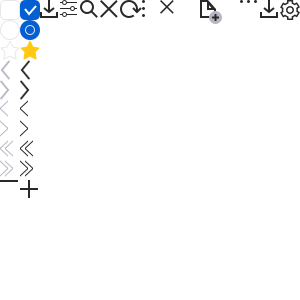
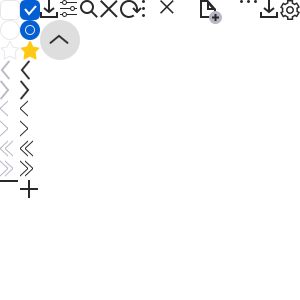
top버튼 추가

Changed region(s): [[0.12, 0.06, 0.27, 0.21]]

diff --git a/view/myProject.html b/view/myProject.html
@@ -504,8 +504,12 @@
                                                         </div>
                                                     </li>
                                                 </ul>
-                                            </div>       
-                                        </div>
+                                            </div> 
+                                        </div>    
+                                            
+                                        <a href="#" class="goTop">
+                                            <i class="ico top"></i>
+                                        </a>
 
                                         <div class="listBottom">
                                             <button class="fullSize white prefix">선택삭제</button>
@@ -622,7 +626,9 @@
                                                 </ul>
                                             </div>   
                                         </div>
-
+                                        <a href="#" class="goTop">
+                                            <i class="ico top"></i>
+                                        </a>
                                         <div class="listBottom">
                                             <button class="fullSize white prefix">이력서 다운로드</button>
                                             <button class="fullSize suffix">면접잡기</button>
@@ -1024,5 +1030,16 @@
     
     <script src="https://ajax.googleapis.com/ajax/libs/jquery/1.12.4/jquery.min.js"></script>
     <script src="../assets/js/script.js"></script>
+    <script>
+        $(function(){
+            var $goTop = $('.goTop');
+
+            $goTop.on('click', function(e){
+                e.preventDefault();
+                
+                $('.tabCont .yScroll').animate({scrollTop : "0",}, 500);
+            })
+        })
+    </script>
 </body>
 </html>

diff --git a/assets/css/style.css b/assets/css/style.css
@@ -2126,6 +2126,11 @@ input[type=radio]:checked + label::before {
   height: 1.25rem;
   background-position: -260px 0;
 }
+.ico.top {
+  width: 2.5rem;
+  height: 2.5rem;
+  background-position: -40px -20px;
+}
 .ico.left {
   width: 0.75rem;
   height: 1.25rem;
@@ -2778,6 +2783,14 @@ h6 {
 }
 .myProjJob .tabContWrap .yScroll .listTop {
   margin-top: 1.875rem;
+}
+.myProjJob .tabContWrap .tabCont {
+  position: relative;
+}
+.myProjJob .tabContWrap .tabCont .goTop {
+  position: absolute;
+  right: 2.5rem;
+  bottom: 6.75rem;
 }
 .myProjJob.is-active {
   overflow-y: scroll;

diff --git a/view/modal.html b/view/modal.html
@@ -106,7 +106,8 @@
                                         <p class="counter">글자 수 50자</p>
                                     </li>
                                 </ul>
-                            </div></div>
+                            </div>
+                        </div>
                     </div>
                 </div>
             </div>

diff --git a/assets/scss/_partial/_page_myProject.scss b/assets/scss/_partial/_page_myProject.scss
@@ -106,6 +106,14 @@
                 margin-top: rem(30);
             }
         }
+        .tabCont{
+            position: relative;
+            .goTop{
+                position: absolute;
+                right: rem(40);
+                bottom: rem(108);
+            }
+        }
     }
     //스크롤할 때
     &.is-active{

diff --git a/assets/scss/_partial/_icon.scss b/assets/scss/_partial/_icon.scss
@@ -87,6 +87,11 @@
         height: rem(20);
         background-position: -260px 0;
     }
+    &.top{
+        width: rem(40);
+        height: rem(40);
+        background-position: -40px -20px;
+    }
     //페이징
     &.left{
         width: rem(12);
